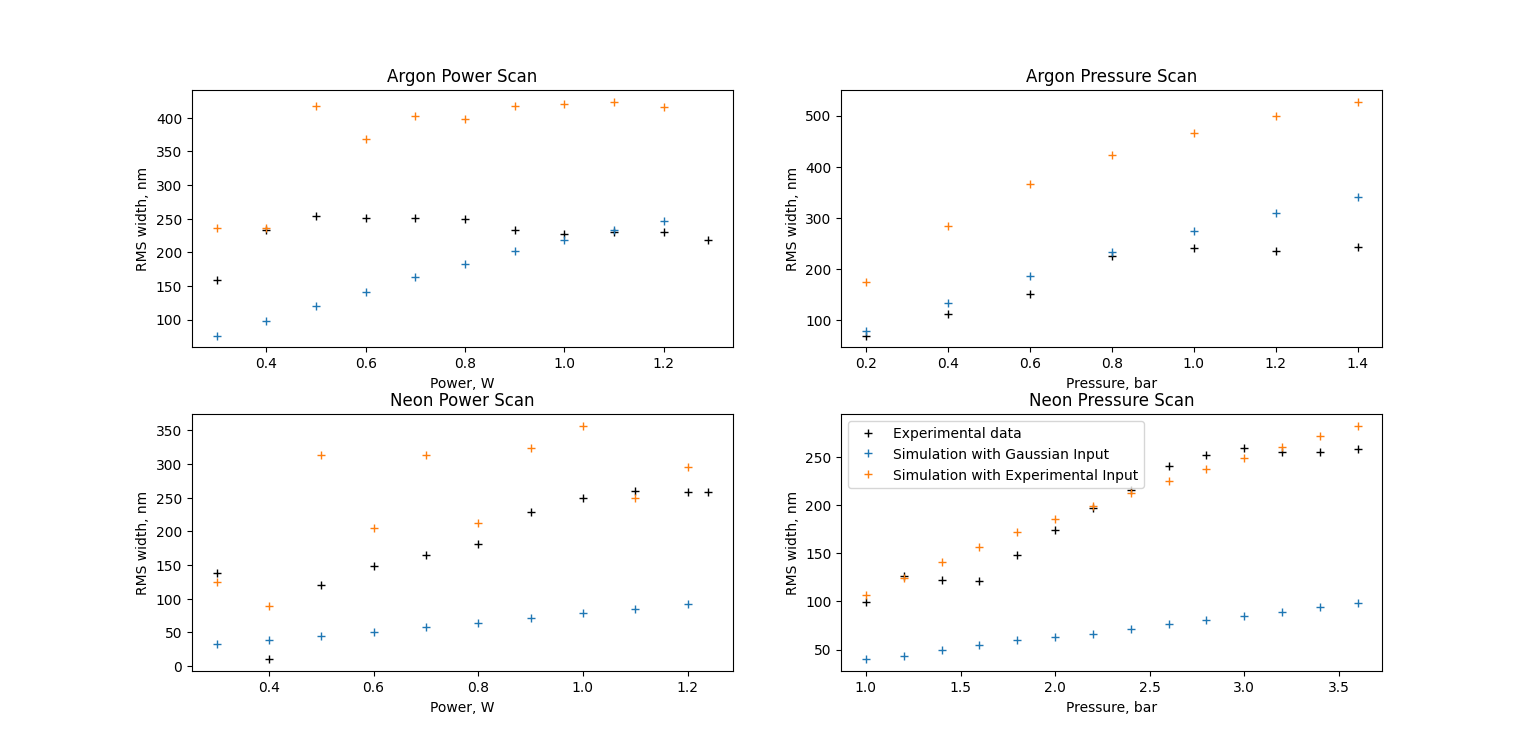
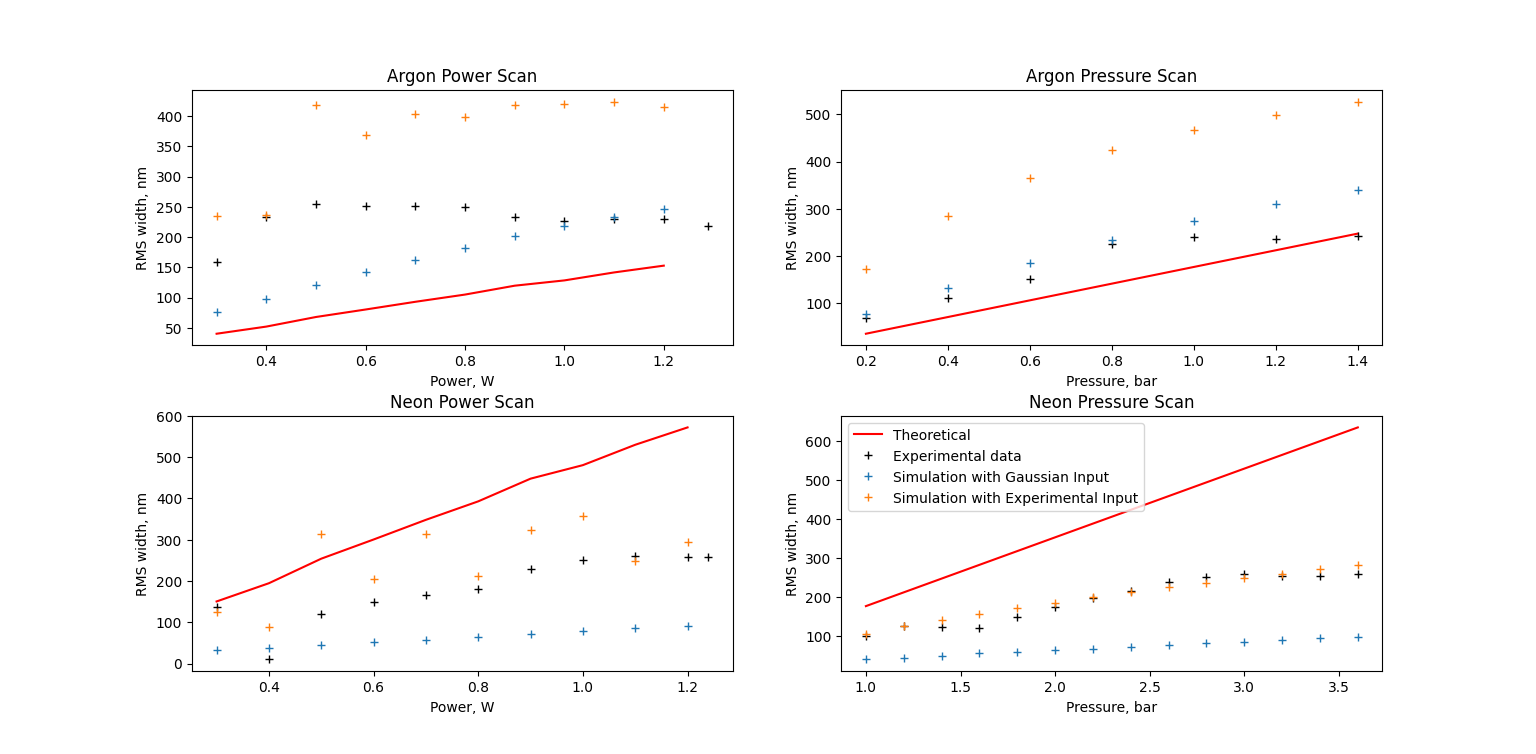
added theoretical width

diff --git a/HCF sim/Python/experiments/simulations/compare_widths_plot.py b/HCF sim/Python/experiments/simulations/compare_widths_plot.py
@@ -1,6 +1,7 @@
 import sys
 import matplotlib.pyplot as plt
 import pandas as pd
+import numpy as np
 sys.path.append('C:\\Users\\iammo\\Documents\\Optimising-Field-Synthesiser\\HCF sim\\Python\\building_datasets\\')
 from rms_width import *
 from theoretical_width import *
@@ -412,11 +413,65 @@ Ne_sim_pulse_PressureScan_widths.append(rms_width(df.iloc[:,0], df.iloc[:,1]))
 
 #####################################################################################################################
 # Calculate theoretical widths
-# theoretical_width(radius, flength, pressure, λ0, τfwhm, energy)
+radius = 175e-6 # HCF core radius
+flength = 1.05 # HCF length
+
+# Read input data
+df = pd.read_csv("C:\\Users\\iammo\\Documents\\Optimising-Field-Synthesiser\\HCF sim\\Python\\experiments\\HCF_scans\\power in\\extracted_params.csv")
+powers = df.iloc[:,0]
+energies = powers/1000
+λ0s = df.iloc[:,1]
+domegas = df.iloc[:,2]
+
+def ang_freq_to_τ_FWHM(FWHM):
+    freq_FWHM = FWHM/(2*np.pi)
+    return 0.44/freq_FWHM
+def ang_freq_to_wavel_width(width, wavel):
+    c = 299792458 
+    freq_width = width/(2*np.pi)
+    return freq_width*(wavel**2)/c
+
+# Argon power scan
+Ar_power_theor_widths = []
+pressure = 0.8*0.66
+for i in range(len(energies)):
+    ang_freq_width = theoretical_width(radius, flength, pressure, λ0s[i], ang_freq_to_τ_FWHM(domegas[i]), energies[i])
+    Ar_power_theor_widths.append(ang_freq_to_wavel_width(ang_freq_width, λ0s[i])*(10**9))
+# Neon power scan
+Ne_power_theor_widths = []
+pressure = 3*0.66
+for i in range(len(energies)):
+    ang_freq_width = theoretical_width(radius, flength, pressure, λ0s[i], ang_freq_to_τ_FWHM(domegas[i]), energies[i])
+    Ne_power_theor_widths.append(ang_freq_to_wavel_width(ang_freq_width, λ0s[i])*(10**9))
+# Argon pressure scan
+Ar_pressures = [1.4, 1.2, 1.0, 0.8, 0.6, 0.4, 0.2]
+Ar_pressure_theor_widths = []
+energy = energies[1]
+λ0 = λ0s[1]
+domega = domegas[1]
+for i in range(len(Ar_pressures)):
+    ang_freq_width = theoretical_width(radius, flength, Ar_pressures[i]*0.66, λ0, ang_freq_to_τ_FWHM(domega), energy)
+    Ar_pressure_theor_widths.append(ang_freq_to_wavel_width(ang_freq_width, λ0)*(10**9))
+# Neon pressure scan
+Ne_pressures = [3.6, 3.4, 3.2, 3.0, 2.8, 2.6, 2.4, 2.2, 2.0, 1.8, 1.6, 1.4, 1.2, 1.0]
+Ne_pressure_theor_widths = []
+energy = energies[1]
+λ0 = λ0s[1]
+domega = domegas[1]
+for i in range(len(Ne_pressures)):
+    ang_freq_width = theoretical_width(radius, flength, Ne_pressures[i]*0.66, λ0, ang_freq_to_τ_FWHM(domega), energy)
+    Ne_pressure_theor_widths.append(ang_freq_to_wavel_width(ang_freq_width, λ0)*(10**9))
+
 
 #####################################################################################################################
 # Plot results
 fig, axs = plt.subplots(2,2)
+
+axs[0,0].plot(powers, Ar_power_theor_widths, color='red')
+axs[0,1].plot(Ar_pressures, Ar_pressure_theor_widths, color='red')
+axs[1,0].plot(powers, Ne_power_theor_widths, color='red')
+axs[1,1].plot(Ne_pressures, Ne_pressure_theor_widths, color='red', label='Theoretical')
+
 axs[0,0].plot(Ar_powers, Ar_PowerScan_widths,'+', color='black')
 axs[0,0].set_xlabel('Power, W')
 axs[0,0].set_ylabel('RMS width, nm')
